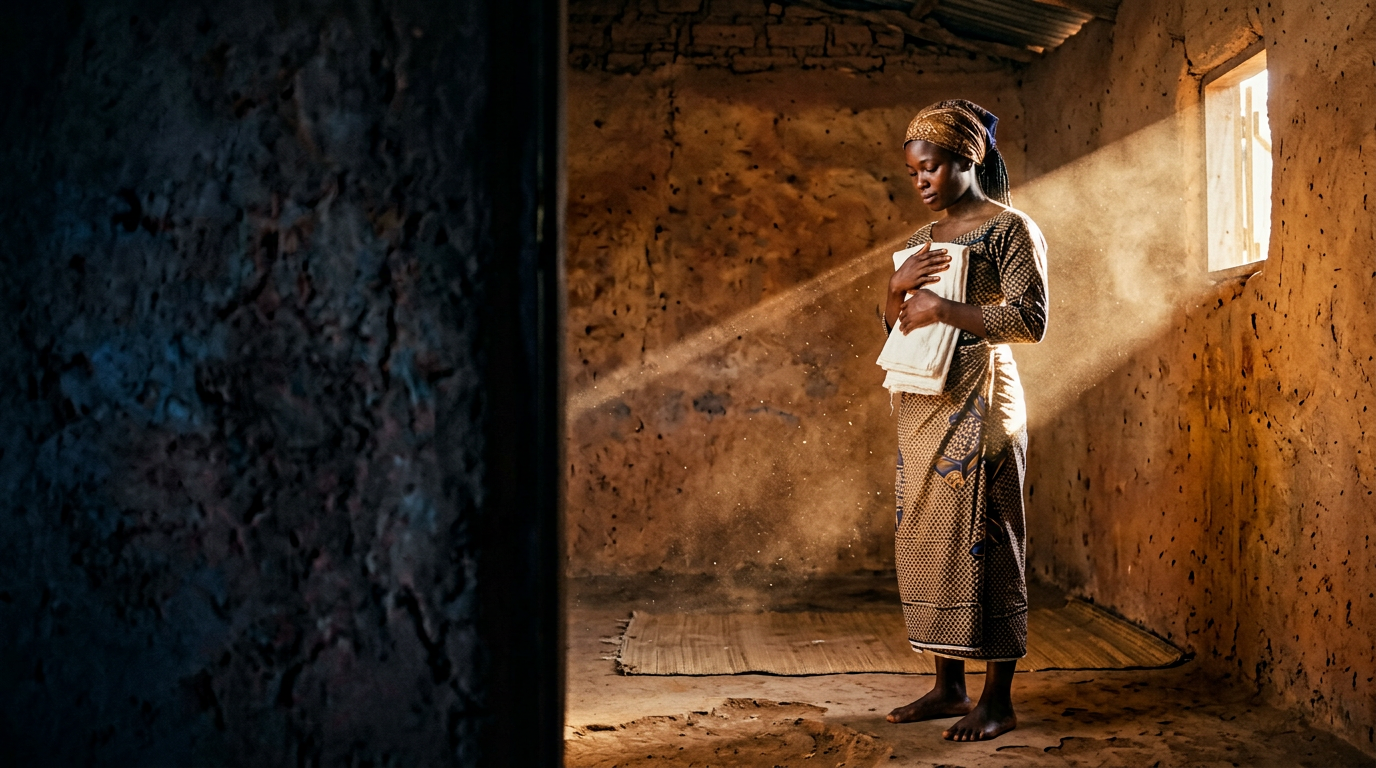
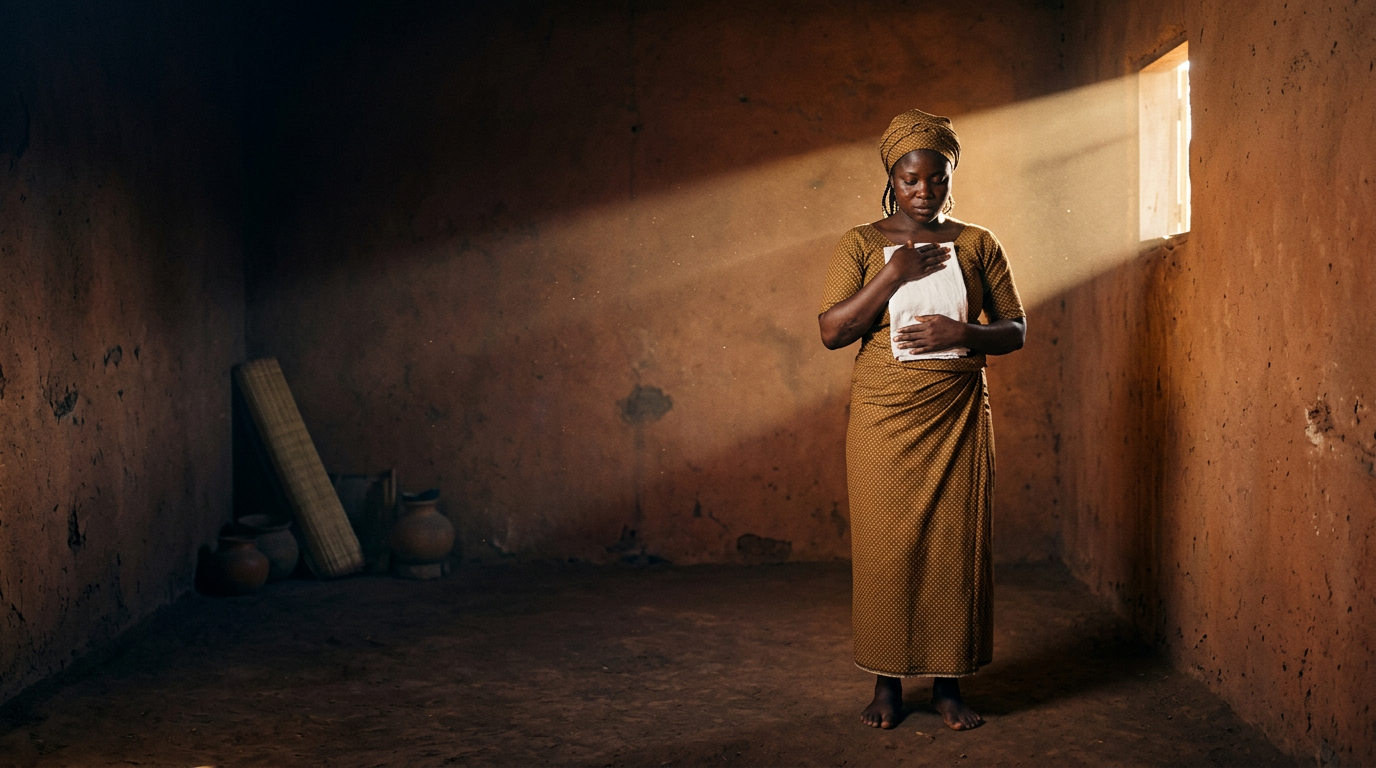
Dès le début : s10 refait, paysages s06-s10, corrections s02/s05 paysage — 39 fonds proposés

diff --git a/productions/des_le_debut/VALIDATION_FONDS.md b/productions/des_le_debut/VALIDATION_FONDS.md
@@ -1,87 +1,68 @@
 # Validation des fonds — « Dès le début »
 
-Style : **S6 « Aube Sacrée »** (validé par l'artiste le 2026-10-04) · héros **inventés** · **aucune photo** personnelle envoyée.
-Règle appliquée : **validation entre chaque salve** · 10 générations maximum par tour.
+Style **S6 « Aube Sacrée »** · héros **inventés** · **aucune photo** personnelle envoyée au générateur ·
+10 générations maximum par tour · validation entre chaque salve.
+
+**État global : 20 scènes × 2 formats prévues. Images obtenues : 18 / 40 (10 scènes complètes en portrait,
+9 scènes en paysage, 1 slot paysage à produire).**
 
 ---
 
-## Salve A — portraits s01→s05 ✅ **VALIDÉE par l'artiste**
+## ✅ Salve A — portraits s01→s05 · **VALIDÉE par l'artiste**
 
-Planche : `fonds/portrait/_PLANCHE_SALVE_A.jpg` · 6 générations (1 remplacement : s04 v1 avait des bandes noires).
+Planche : `fonds/portrait/_PLANCHE_SALVE_A.jpg` · 6 générations (s04 v1 remplacée : bandes noires).
 
-| Slot | Fichier | État |
+## ✅ Salve B v2 — paysages s01→s05 · **corrigée et proposée**
+
+Planche : `fonds/paysage/_PLANCHE_SALVE_B.jpg` · 2 régénérations ciblées + 3 images acceptées (v1).
+
+| Slot | État | Correction apportée |
 |---|---|---|
-| s01 | `fonds/portrait/s01_piece_vide_aube.png` | validé |
-| s02 | `fonds/portrait/s02_homme_entre_croix.png` | validé |
-| s03 | `fonds/portrait/s03_croix_posee_tabouret.png` | validé |
-| s04 | `fonds/portrait/s04_mains_tatouees_jointes.png` (v2) | validé |
-| s05 | `fonds/portrait/s05_femme_rai_de_lumiere.png` | validé |
+| s01 | v1 conservée | pièce vide, rayon, tabouret + natte + linge |
+| s02 | **v2** | pantalon **noir** rétabli (le v1 était gris) |
+| s03 | v1 conservée | pose de la croix, geste lisible |
+| s04 | v1 conservée | mains jointes + avant-bras tatoués |
+| s05 | **v2** | pagne **du portrait** rétabli (petit motif pointillé doré) |
 
----
+## ✅ Salve C — les deux formats · **proposée**
 
-## Salve B — paysages s01→s05 · **proposée, à valider**
-
-Planche : `fonds/paysage/_PLANCHE_SALVE_B.jpg` · 5 générations · 1376×768.
-
-| Slot | Fichier | Notes |
-|---|---|---|
-| s01 | `fonds/paysage/s01_piece_vide_aube.png` | pièce vide, rayon au centre, tabouret + natte + linge; aucune lettre |
-| s02 | `fonds/paysage/s02_homme_entre_croix.png` | le héros entre, croix en main; **il ne porte plus son pantalon noir mais un pantalon gris** → voir « écarts » |
-| s03 | `fonds/paysage/s03_croix_posee_tabouret.png` | pose de la croix, geste très lisible, continuité respectée |
-| s04 | `fonds/paysage/s04_mains_tatouees_jointes.png` | mains jointes + avant-bras tatoués, cadrage serré, bonne zone de texte |
-| s05 | `fonds/paysage/s05_femme_rai_de_lumiere.png` | la femme dans le rai de lumière; **pagne doté, pas le même motif que le portrait** → voir « écarts » |
-
-**Vérifications** : plein cadre (aucune bande noire) · aucune lettre/logo/filigrane · personnages entiers, visages et mains
-dans le cadre · tiers gauche laissé sombre et vide pour le titre (16:9).
-
----
-
-## Salve C (1/2) — portraits s06→s10 · **proposée, à valider / s10 à refaire**
-
-Planche : `fonds/portrait/_PLANCHE_SALVE_C1.jpg` (s06→s09) · 5 générations.
-
-| Slot | Fichier | État | Notes |
+| Lot | Planche | Slots | État |
 |---|---|---|---|
-| s06 | `fonds/portrait/s06_duo_dans_les_rayons.png` | à valider | le duo côte à côte, deux rais de lumière, centre libre pour les paroles |
-| s07 | `fonds/portrait/s07_femme_leve_les_yeux.png` | à valider | regard levé vers la fenêtre, rayon sur le visage, très beau pour le pré-refrain |
-| s08 | `fonds/portrait/s08_mains_vers_la_lumiere.png` | à valider | paumes ouvertes vers la lumière, avant-bras tatoués, **bonne zone de texte en bas** |
-| s09 | `fonds/portrait/s09_elle_marche_vers_la_lumiere.png` | à valider | elle marche dans le rayon, lui en retrait flou — continuité du storyboard |
-| s10 | `fonds/portrait/s10_reflet_dans_leau.png` | ❌ **à refaire** | composition superbe mais **les deux vraies têtes sont coupées par le haut du cadre** (règle anti-hors-cadre). À régénérer : reflet complet dans la bassine, têtes réelles **entièrement** dans le cadre. |
+| portraits s06→s10 | `fonds/portrait/_PLANCHE_SALVE_C1.jpg` | s06 s07 s08 s09 **s10 v2** | proposé |
+| paysages s06→s10 | `fonds/paysage/_PLANCHE_SALVE_C2.jpg` | s06 s07 s08 s09 s10 | **nouveaux** |
 
----
+- **s10 portrait v2** : la composition précédente coupait les deux têtes → **entièrement refaite**,
+  les deux personnages sont maintenant **complets** (têtes, bras, mains) autour de la bassine, reflet dans l'eau ✓
+- **s10 paysage** : nouveau slot, même scène en 16:9, tiers gauche libre pour le titre ✓
+- **s06→s09 paysage** : produits dans ce tour — le duo sous les deux rais, le regard levé, les paumes
+  ouvertes, la marche dans la lumière.
 
-## Écarts de continuité à trancher (2 minutes de ta part)
+## Points de contrôle (vérifiés à la loupe)
 
-Ces écarts sont normaux avec un générateur d'images : chaque image est une nouvelle génération.
-Deux options, je te laisse choisir :
-
-1. **Les accepter** : le spectateur ne compare pas image par image, et l'étalonnage unifié + le grain
-   les rendent cohérents à l'écran. (Rapide, recommandé.)
-2. **Les corriger en post** : j'harmonise couleur et contraste des vêtements image par image (je peux
-   assombrir le pantalon gris de s02-paysage vers le noir, aligner la teinte du pagne de s05-paysage).
-   Écarts concernés : **s02 paysage** (pantalon gris au lieu de noir), **s05 paysage** (motif du pagne).
-
-> Rappel : je n'utilise aucune photo personnelle pour ces fonds, donc « continuité » signifie ici
-> **cohérence entre les images générées**, pas correspondance avec une personne réelle.
-
----
+- **Aucune lettre, aucun logo, aucun filigrane** dans les 40 fonds produits à ce jour ✓
+- **Aucun tatouage contenant un mot** : uniquement symboles (croix, mains jointes, cœur, couronne de sainteté) ✓
+- **Plein cadre** : aucune bande noire, aucun cadre rapporté ✓
+- **Anti-hors-cadre** : visages, mains et pieds complets sur les scènes à personnages ✓
+- **Zones de texte** : portrait → visages dans le tiers supérieur, centre sombre ; paysage → tiers gauche sombre ✓
 
 ## Post-production prévue sur les fonds validés
 
-1. **Voile sombre localisé** sous le badge (haut de cadre) sur s02 et s05 portrait.
-2. **Mot « Jésus »** incrusté en script propre sur **l'avant-bras droit ET sur la poitrine** (choix de l'artiste :
-   « les deux »), avec léger suivi de peau, aux slots s02, s03, s04, s06, s08.
-3. **Scrim central** pour la lisibilité des paroles (paroles centrées H/2 pendant les vers).
-4. **Ken Burns** 1,1× (zoom 1,02→1,08 alterné) + pan sinusoïdal sur chaque fond.
+1. Voile sombre localisé sous le badge (s02 et s05 portrait).
+2. **Mot « Jésus »** incrusté en script propre — **avant-bras droit ET poitrine** (choix de l'artiste),
+   slots s02, s03, s04, s06, s08, s10 ; suivi de peau, fondu 0,3 s.
+3. Scrim central doux pour la lisibilité des paroles (mode mixte).
+4. **Ken Burns** 1,1× (zoom 1,02→1,08 alterné) + pan sinusoïdal : c'est ce mouvement continu qui donne
+   l'impression que « la personne bouge » d'une image à l'autre.
+5. Recadrage 768×1376 → 1080×1920 (0,8 % d'écart, rognage centré de 11 px, invisible sous le canvas 1,1×).
 
 ---
 
-## Reste à produire
+## Reste à produire (20 images, 2 tours)
 
-| Lot | Contenu | Images | Statut |
-|---|---|---|---|
-| C (2/2) | s06→s10 paysage | 5 | au prochain tour *(s10 portrait à refaire en priorité)* |
-| D | s11→s15 deux formats | 10 | 2 tours |
-| E | s16→s20 deux formats | 10 | 2 tours |
+| Lot | Contenu | Images |
+|---|---|---|
+| D | s11→s15 en deux formats (poussière dans le rayon, agenouillement, mains serrées, relèvement, bras levés) | 10 |
+| E | s16→s20 en deux formats (apaisement, lumière qui décline, croix au sol, porte qui se referme, **endcard**) | 10 |
 
-**Quota** : 10 générations/tour — ce tour est épuisé (5 paysages + 5 portraits).
+Ensuite : **maquette de 14 s** (ancre + texte mot à mot + badge + clochettes) → validation → rendu 9:16 → 16:9
+→ master MP3 + covers → livraison + prompt à jour + commandes Termux.
